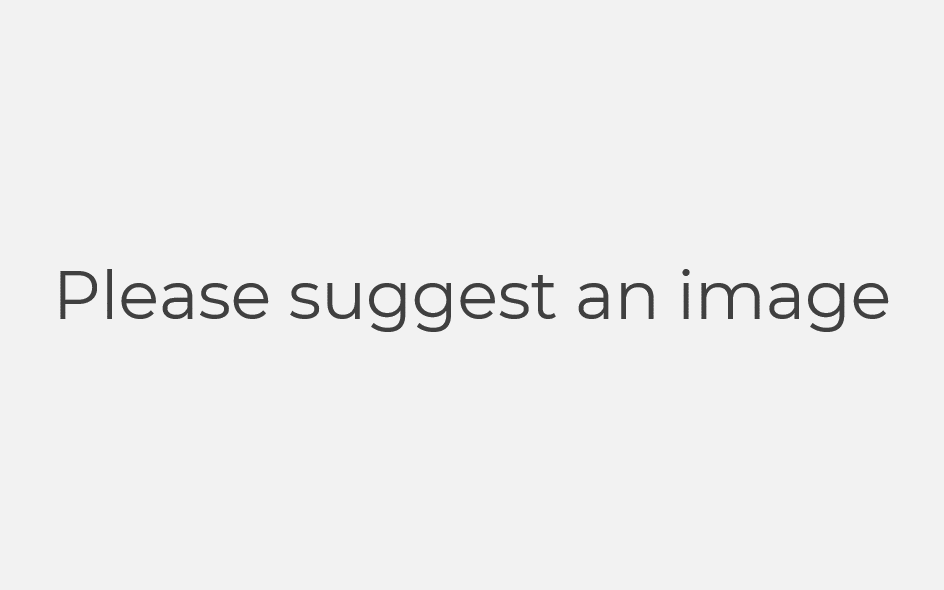
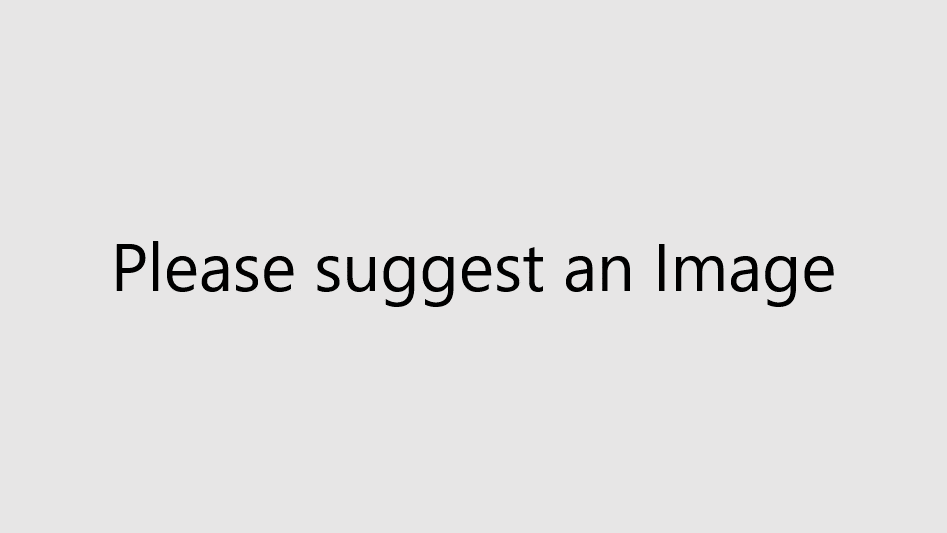
Change Font

Changed region(s): [[0.0614, 0.4503, 0.9523, 0.6004]]

diff --git a/src/App.css b/src/App.css
@@ -1,8 +1,3 @@
-* {
-  font-family: Montserrat;
-  font-size: 14px;
-}
-
 *::selection {
   color: black;
   background-color: gainsboro;
